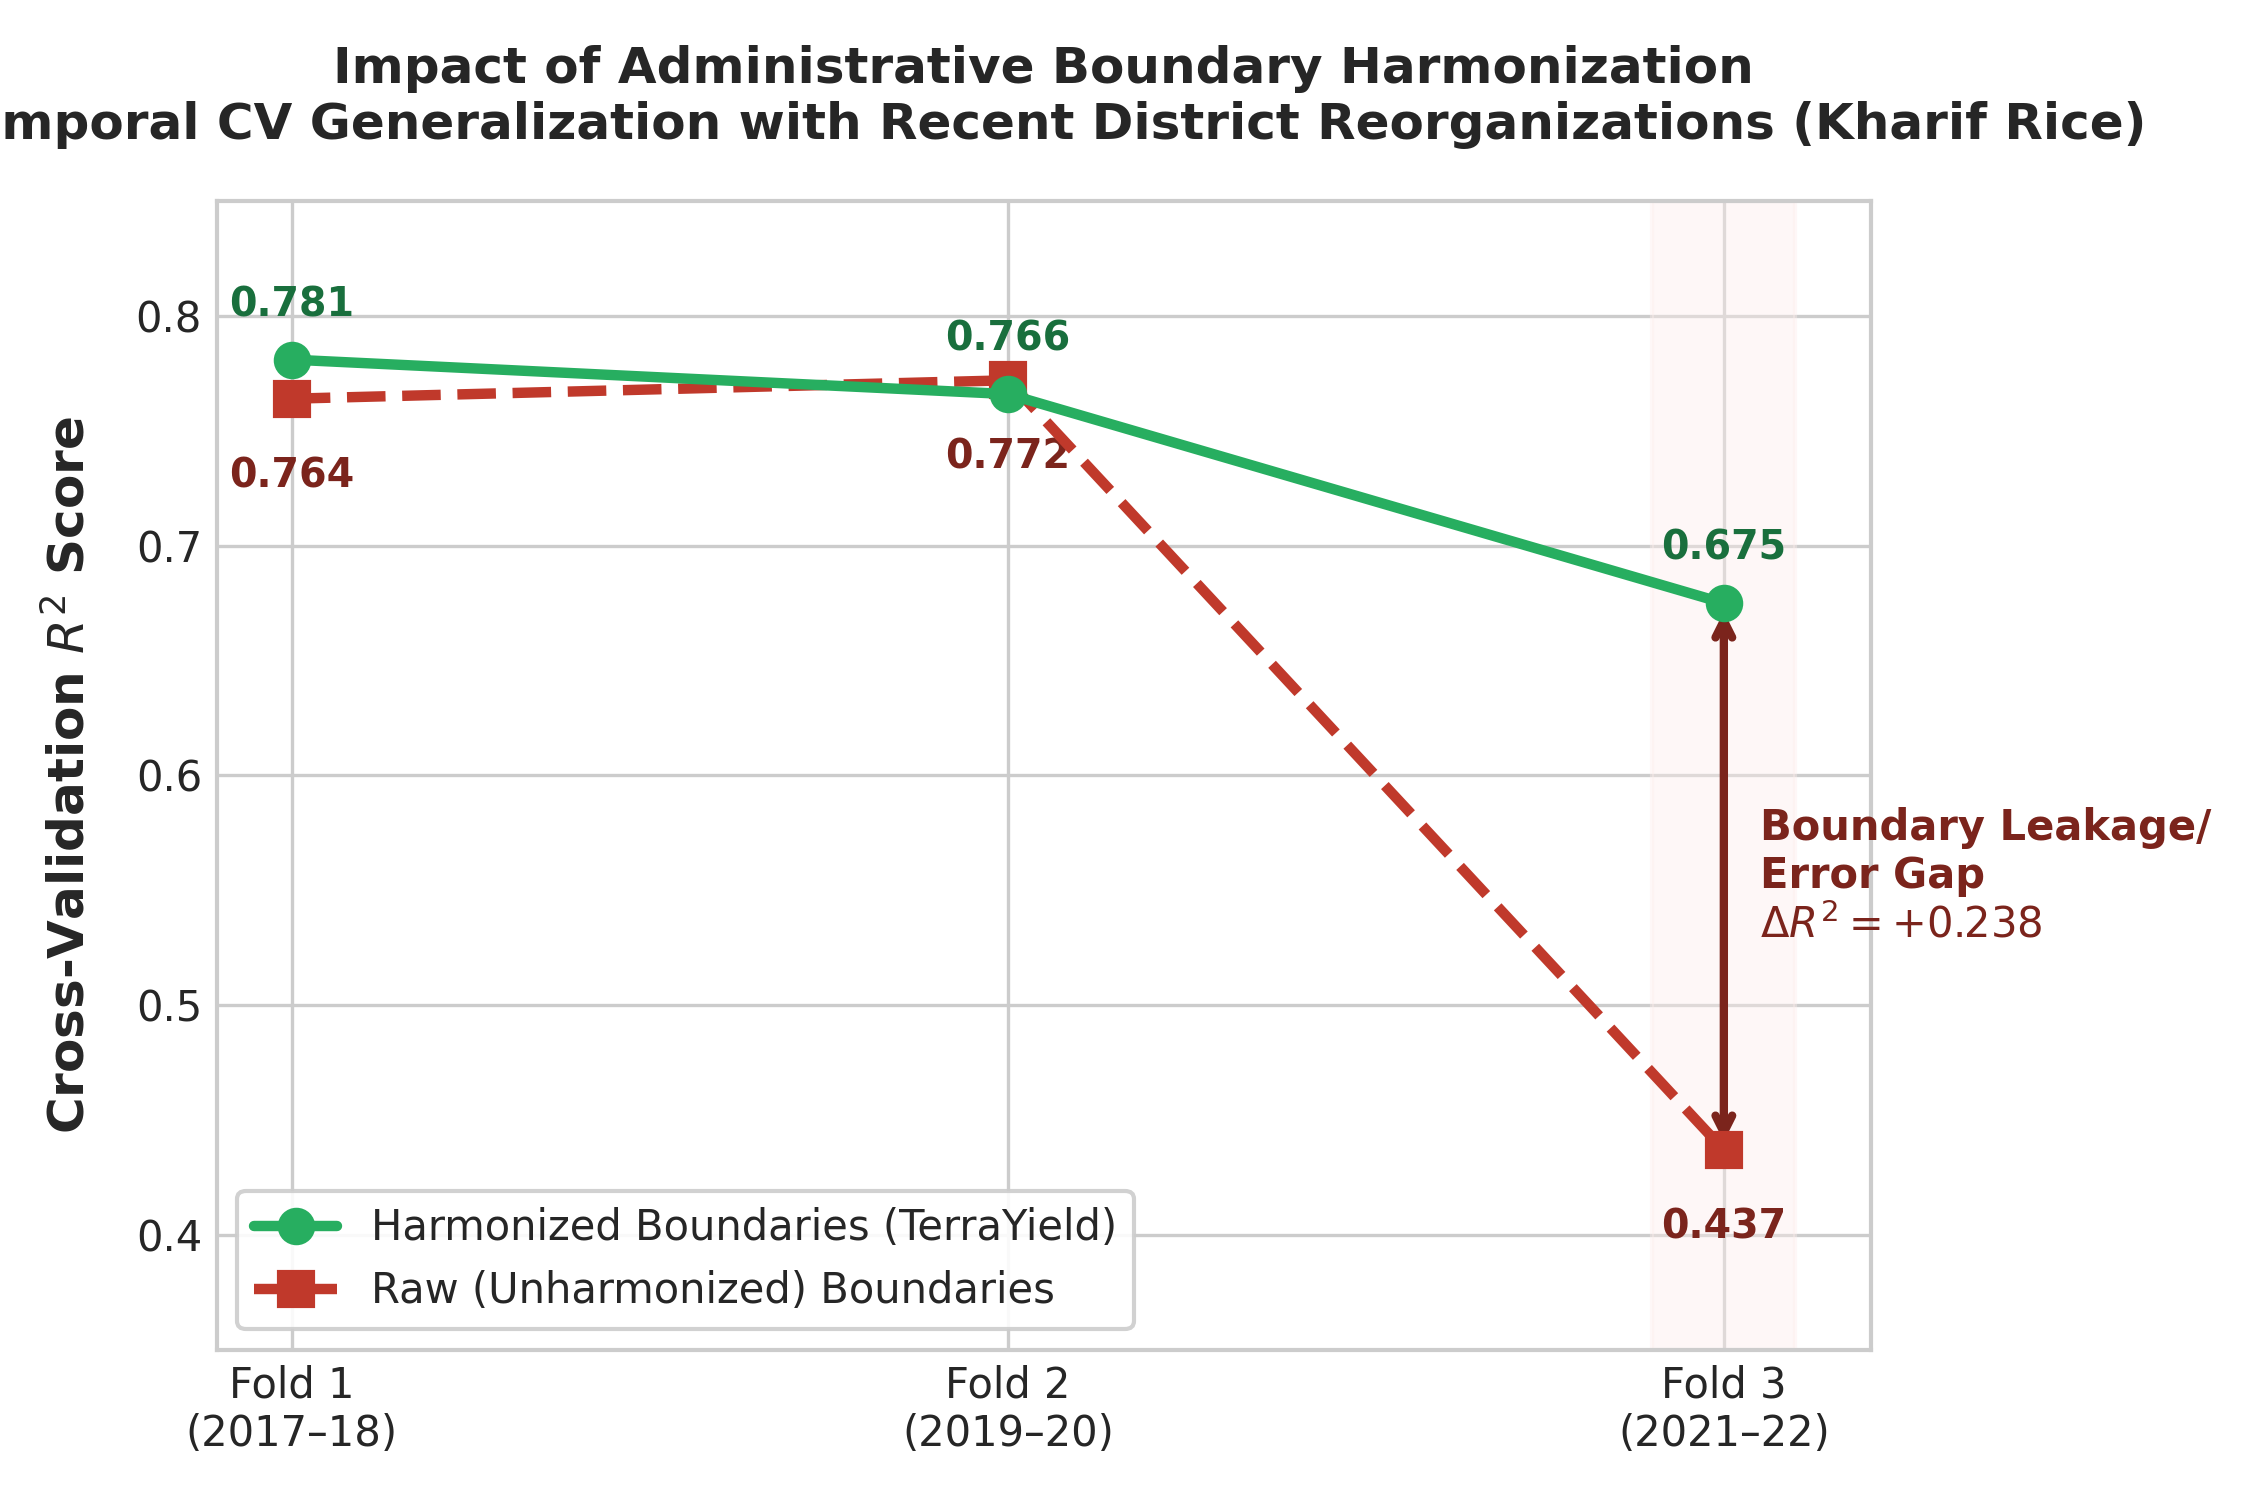
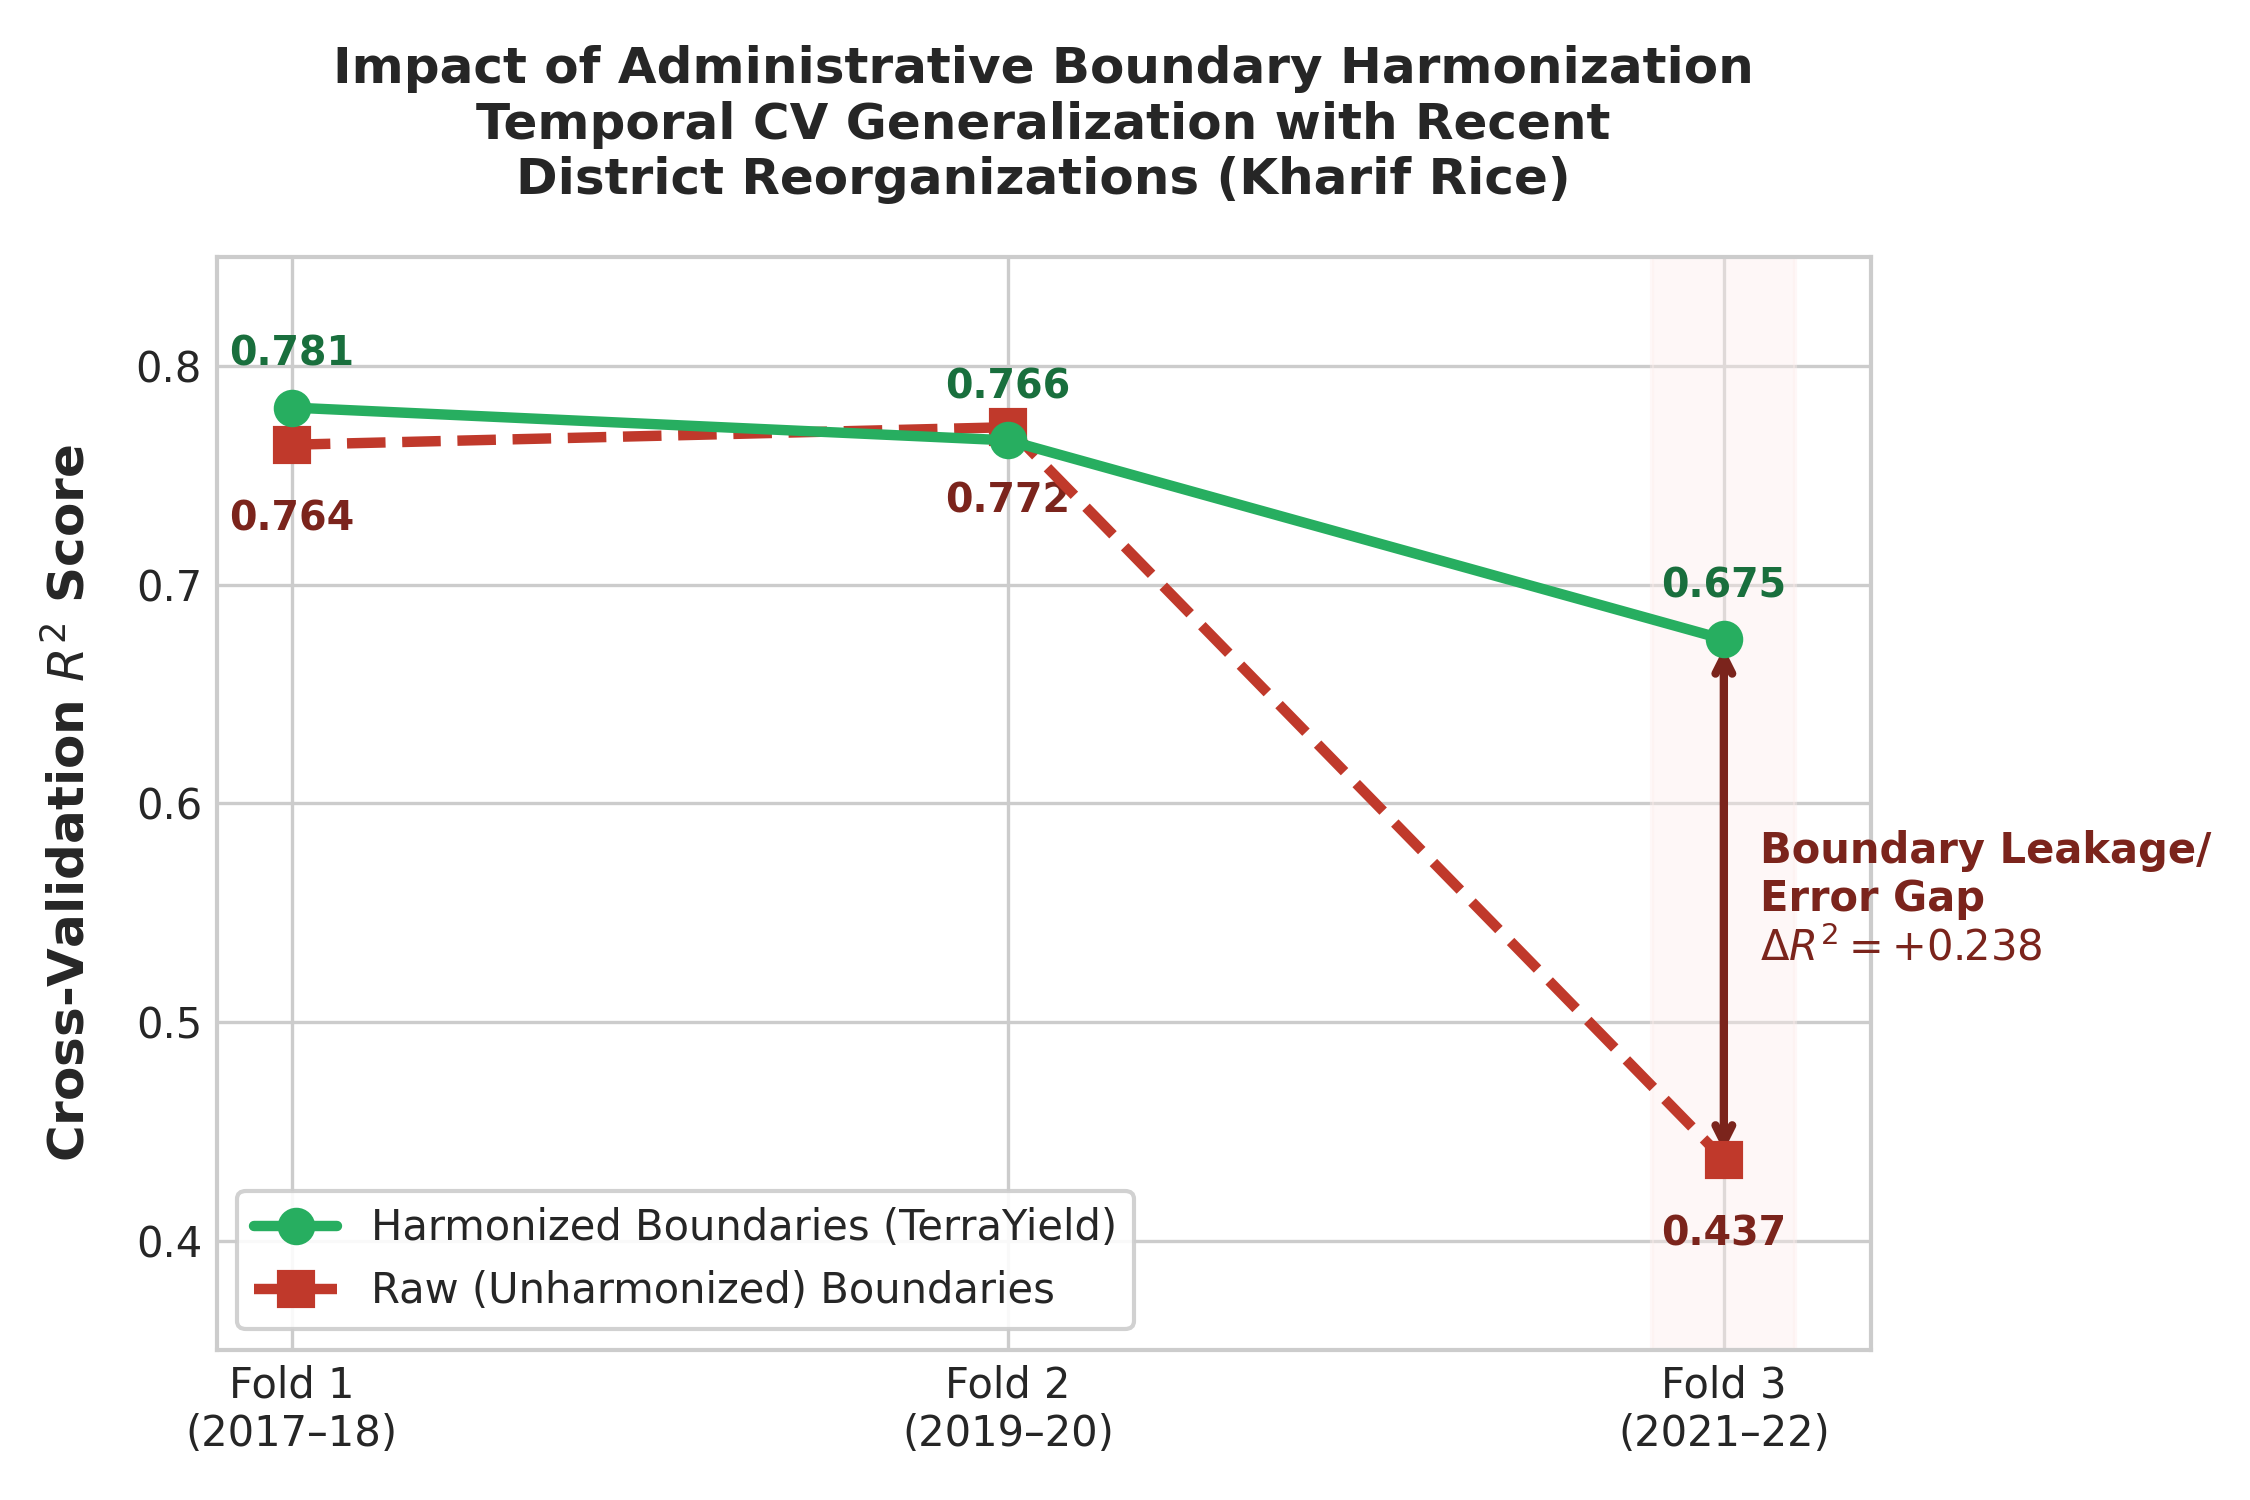
docs: Update harmonization vs raw trajectory figure with 3-line title

diff --git a/tune_rice_optuna.py b/tune_rice_optuna.py
@@ -3,6 +3,7 @@ Optuna hyperparameter optimization script for Kharif Rice.
 Runs focused searches on XGBoost, LightGBM, and CatBoost
 using chronological time-series cross-validation.
 """
+import argparse
 import optuna
 import numpy as np
 import pandas as pd
@@ -22,6 +23,14 @@ optuna.logging.set_verbosity(optuna.logging.WARNING)
 np.random.seed(42)
 
 def main():
+    parser = argparse.ArgumentParser(description="Optuna tuning for Kharif Rice.")
+    parser.add_argument("--full", action="store_true", help="Run full search with 100/80/80 trials instead of 30/20/20.")
+    args = parser.parse_args()
+
+    cb_trials = 100 if args.full else 30
+    xgb_trials = 80 if args.full else 20
+    lgb_trials = 80 if args.full else 20
+
     crop_name = "kharif_rice"
     profile = CROP_PROFILES[crop_name]
     target_col = profile["target_col"]
@@ -55,8 +64,8 @@ def main():
 
     cat_features_list = ["State", "District_mapped"]
 
-    # 1. OPTUNA: CatBoost (30 trials)
-    print("\n>>> Tuning CatBoost (30 trials)...")
+    # 1. OPTUNA: CatBoost
+    print(f"\n>>> Tuning CatBoost ({cb_trials} trials)...")
     def objective_cb(trial):
         params = {
             'iterations': trial.suggest_int('iterations', 200, 1000),
@@ -91,13 +100,13 @@ def main():
         return np.mean(fold_r2s)
 
     study_cb = optuna.create_study(direction='maximize')
-    study_cb.optimize(objective_cb, n_trials=30)
+    study_cb.optimize(objective_cb, n_trials=cb_trials)
     best_cb = study_cb.best_params
     print(f"  Best CatBoost R²: {study_cb.best_value:.4f}")
     print(f"  Best parameters: {best_cb}")
 
-    # 2. OPTUNA: XGBoost (20 trials)
-    print("\n>>> Tuning XGBoost (20 trials)...")
+    # 2. OPTUNA: XGBoost
+    print(f"\n>>> Tuning XGBoost ({xgb_trials} trials)...")
     def objective_xgb(trial):
         params = {
             'n_estimators': trial.suggest_int('n_estimators', 200, 1000),
@@ -132,13 +141,13 @@ def main():
         return np.mean(fold_r2s)
 
     study_xgb = optuna.create_study(direction='maximize')
-    study_xgb.optimize(objective_xgb, n_trials=20)
+    study_xgb.optimize(objective_xgb, n_trials=xgb_trials)
     best_xgb = study_xgb.best_params
     print(f"  Best XGBoost R²: {study_xgb.best_value:.4f}")
     print(f"  Best parameters: {best_xgb}")
 
-    # 3. OPTUNA: LightGBM (20 trials)
-    print("\n>>> Tuning LightGBM (20 trials)...")
+    # 3. OPTUNA: LightGBM
+    print(f"\n>>> Tuning LightGBM ({lgb_trials} trials)...")
     def objective_lgb(trial):
         params = {
             'n_estimators': trial.suggest_int('n_estimators', 200, 1000),
@@ -175,7 +184,7 @@ def main():
         return np.mean(fold_r2s)
 
     study_lgb = optuna.create_study(direction='maximize')
-    study_lgb.optimize(objective_lgb, n_trials=20)
+    study_lgb.optimize(objective_lgb, n_trials=lgb_trials)
     best_lgb = study_lgb.best_params
     print(f"  Best LightGBM R²: {study_lgb.best_value:.4f}")
     print(f"  Best parameters: {best_lgb}")

diff --git a/README.md b/README.md
@@ -166,10 +166,10 @@ We executed a hyperparameter optimization using **Optuna** over the Out-of-Time 
 
 | Model | Fold 1 R² (2017-18) | Fold 2 R² (2019-20) | Fold 3 R² (2021-22) | **Average R²** | **Average RMSE** | **Average MAE** |
 | :--- | :---: | :---: | :---: | :---: | :---: | :---: |
-| **XGBoost** (Baseline) | 0.825 | 0.835 | 0.830 | **0.830** | - | - |
-| **LightGBM** (Baseline) | 0.871 | 0.865 | 0.853 | **0.863** | - | - |
-| **CatBoost** (Baseline) | 0.876 | 0.872 | 0.852 | **0.866** | - | - |
-| **Weighted Ensemble** | 0.876 | 0.871 | 0.852 | **0.866** | **0.435** | **0.311** |
+| **XGBoost** (Baseline) | 0.851 | 0.826 | 0.828 | **0.835** | **0.484** | **0.350** |
+| **LightGBM** (Baseline) | 0.872 | 0.867 | 0.841 | **0.860** | **0.445** | **0.320** |
+| **CatBoost** (Baseline) | 0.886 | 0.868 | 0.842 | **0.865** | **0.436** | **0.312** |
+| **Weighted Ensemble** | 0.885 | 0.867 | 0.844 | **0.865** | **0.436** | **0.312** |
 
 > [!TIP]
 > **Why Wheat Performs Better**: Rabi Wheat is heavily irrigated in India's Indo-Gangetic plains. The irrigation buffers the crop against localized rainfall shocks, producing a cleaner, highly predictable signal for the climate variables (soil moisture and temperature) compared to monsoon-dependent Kharif Rice.
@@ -434,6 +434,19 @@ python train_crop.py [crop_profile] [options]
 PYTHONPATH=. python train_crop.py rabi_wheat \
   --include_district --include_ext_months --include_soil_l1 --include_lag3
 ```
+
+---
+
+### 2. Hyperparameter Tuning (`tune_rice_optuna.py`)
+To run the Optuna hyperparameter optimization for Kharif Rice:
+* **Fast Demo Mode** (30 trials CatBoost, 20 trials XGBoost, 20 trials LightGBM):
+  ```bash
+  PYTHONPATH=. python tune_rice_optuna.py
+  ```
+* **Full Tuning Mode** (100 trials CatBoost, 80 trials XGBoost, 80 trials LightGBM - replicates paper parameters):
+  ```bash
+  PYTHONPATH=. python tune_rice_optuna.py --full
+  ```
 
 ---
 